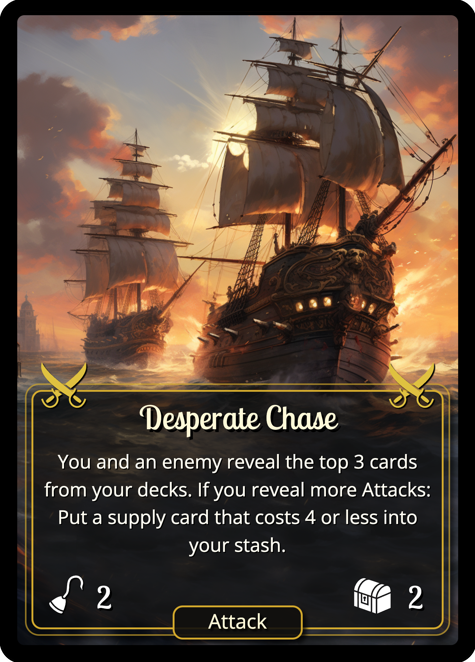
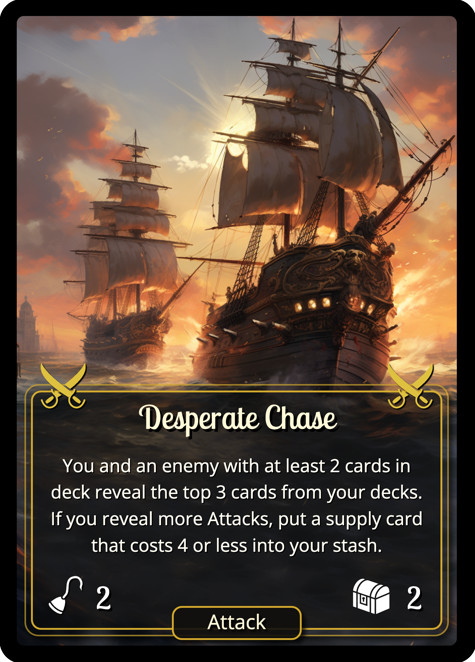
Clarification on desperate chaes

diff --git a/deckhand/cards.en.js b/deckhand/cards.en.js
@@ -654,8 +654,9 @@ are reminders of triggered effects<br>
 
 {
     'title': 'Desperate Chase',
-    'text': `You and an enemy with at least 2 cards in deck reveal the top 3 cards from your decks. 
-            <br>If you reveal more Attacks, put a supply card that costs 4 or less into your stash.`,
+    'text': `You and an enemy reveal the top 3 cards from your decks. 
+            You both must have at least 2 cards in deck.
+            If you reveal more Attacks, put a supply card that costs 4 or less into your stash.`,
     //'reduced-font-size': '9.3px',
     //'flavor': 'Sails ablaze, cannons roar, a final duel in pursuit.',
     'img': 'attacks/chase-2.png',
